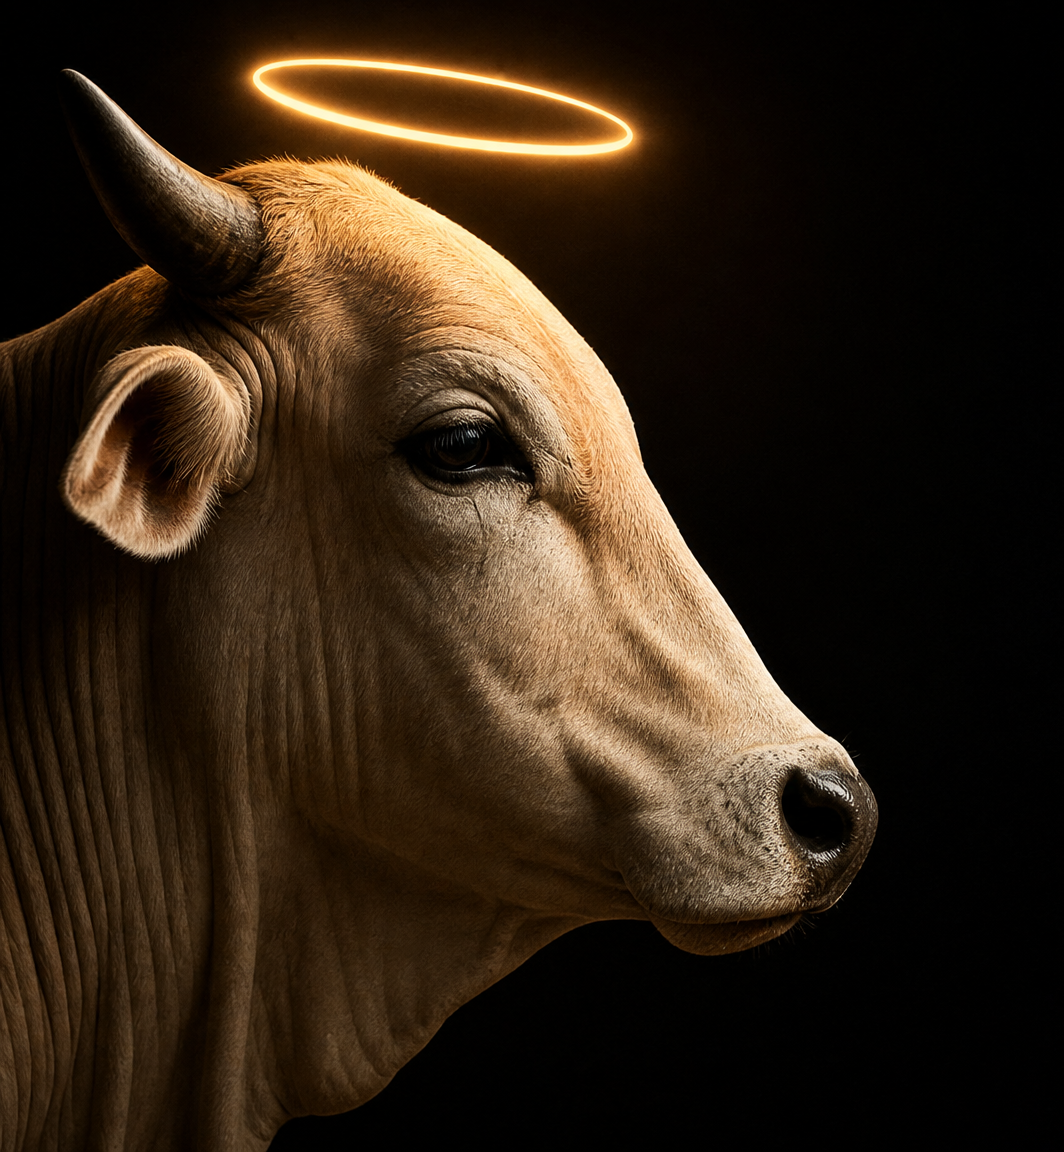
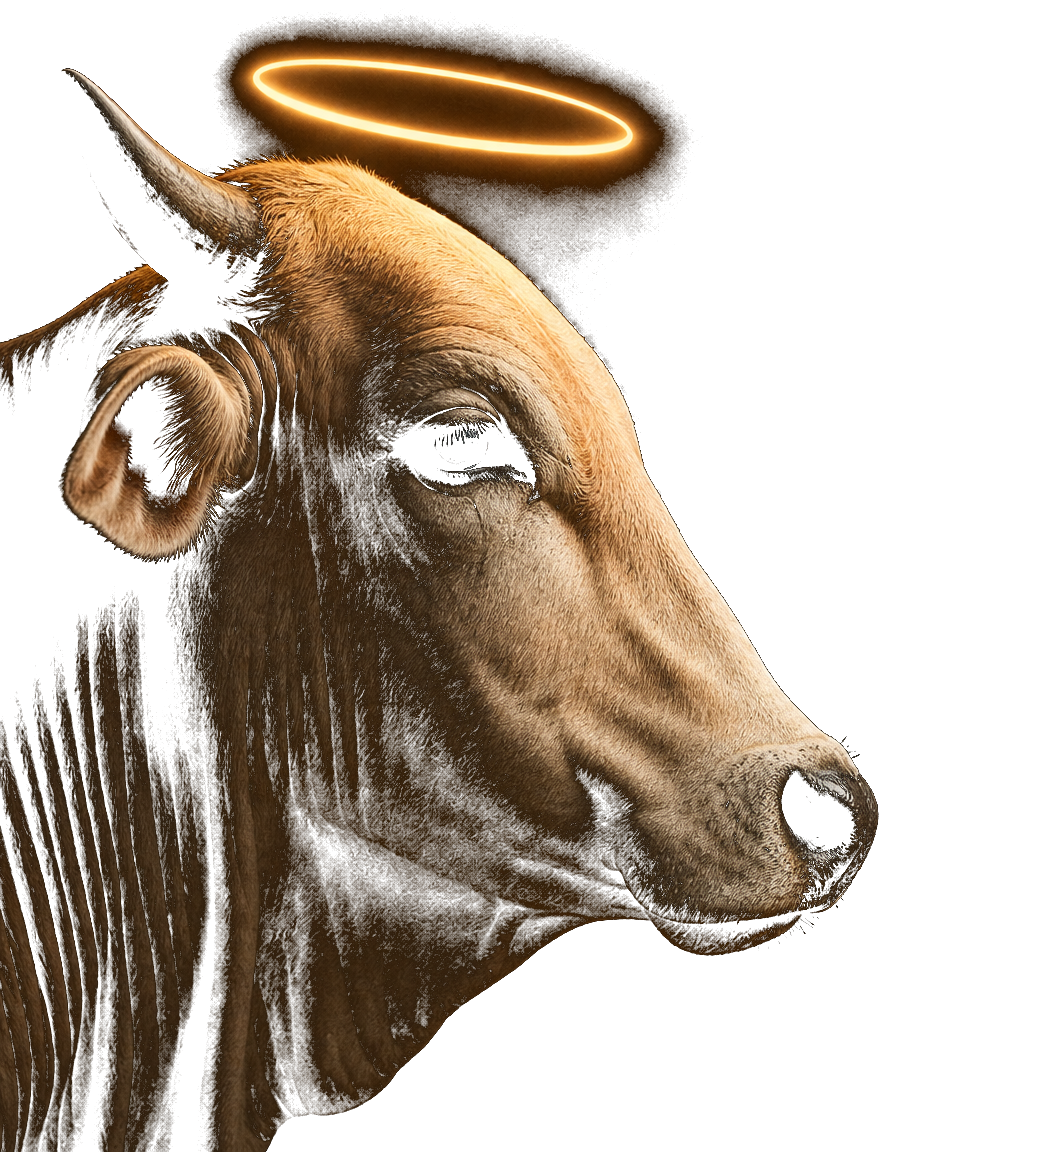
codex: slide 3 — transparent PNG BG, restore baseline blur+vignette
- Revert .codex-bg-bright class + override CSS (was brightening mosaic on slide 3)
- Revert vignette to static gradient (same as slides 1/2: 0.25 → 0.5 ellipse)
- PIL alpha-mask black BG → transparent on cow + hektor PNGs:
  - brightness < 12 → alpha 0 (pure black BG transparent)
  - 12 ≤ brightness < 30 → linear feather
  - brightness ≥ 30 → opaque (preserves cow nose, dark fur, hektor's black coat)
- Remove mask-image linear-gradient from .codex-cow + .codex-hektor
  (no longer needed — transparent PNG BG handles edge blending)

Per Matej: BG must match slides 1/2 exactly; only opaque black at noses/beards
was the issue, side margins where photo doesn't reach edge are fine.

diff --git a/src/pages/Codex.tsx b/src/pages/Codex.tsx
@@ -130,17 +130,15 @@ export default function Codex() {
   };
 
   return (
-    <div className={`dark-bg flex flex-col h-[100dvh] overflow-hidden relative ${slide === 2 ? 'codex-bg-bright' : ''}`}>
+    <div className="dark-bg flex flex-col h-[100dvh] overflow-hidden relative">
       {/* Radial vignette — lighter on slide 3 so BG mosaic stays visible around PNGs */}
       <div
         aria-hidden
         style={{
           position: 'absolute',
           inset: 0,
-          background: slide === 2
-            ? 'transparent'
-            : 'radial-gradient(ellipse at center, rgba(0,0,0,0.25) 0%, rgba(0,0,0,0.4) 60%, rgba(0,0,0,0.5) 100%)',
-          transition: 'background 380ms ease',
+          background:
+            'radial-gradient(ellipse at center, rgba(0,0,0,0.25) 0%, rgba(0,0,0,0.4) 60%, rgba(0,0,0,0.5) 100%)',
           zIndex: 0,
           pointerEvents: 'none',
         }}
@@ -153,12 +151,6 @@ export default function Codex() {
       </div>
 
       <style>{`
-        /* Slide 3: brighten BG mosaic so heroglyph symbols are visible around PNGs */
-        .codex-bg-bright::before {
-          filter: blur(0) brightness(1.8) saturate(1.15) !important;
-          opacity: 1 !important;
-          transition: filter 380ms ease, opacity 380ms ease;
-        }
         .codex-slider {
           position: relative;
           width: 100%;
@@ -670,15 +662,11 @@ export default function Codex() {
           height: clamp(78vh, 94vh, 108vh);
           left: 50px;
           transform: translateY(-50%);
-          -webkit-mask-image: linear-gradient(to right, #000 0%, #000 78%, transparent 100%);
-                  mask-image: linear-gradient(to right, #000 0%, #000 78%, transparent 100%);
         }
         .codex-hektor {
           height: clamp(90vh, 108vh, 124vh);
           right: 4vw;
           transform: translateY(-50%);
-          -webkit-mask-image: linear-gradient(to left, #000 0%, #000 78%, transparent 100%);
-                  mask-image: linear-gradient(to left, #000 0%, #000 78%, transparent 100%);
         }
         .codex-3-overlay {
           position: relative;
